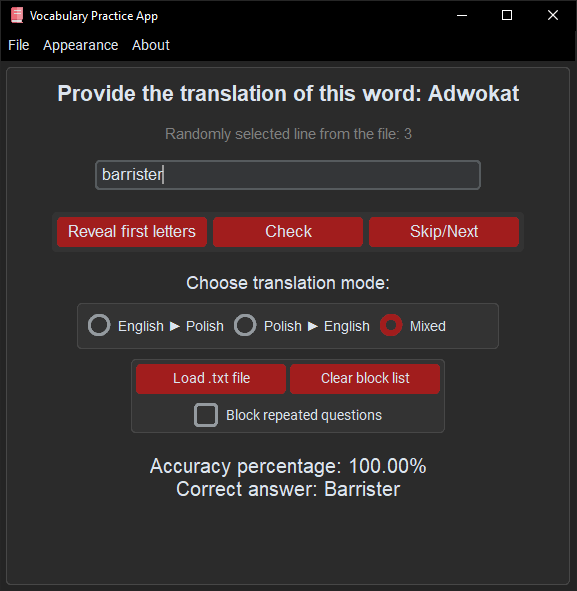
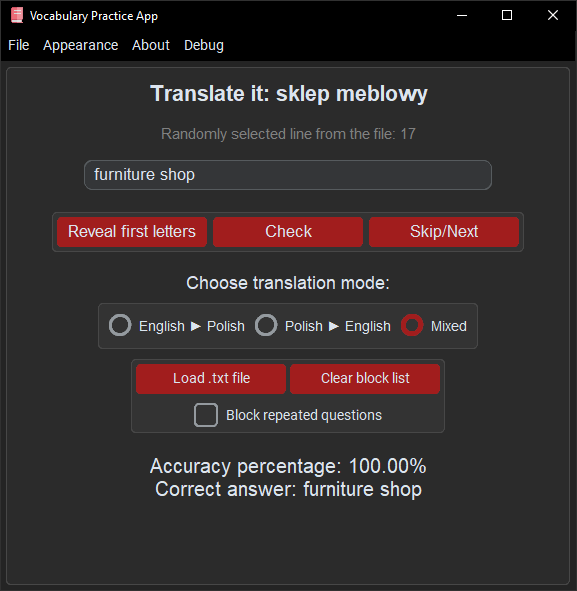
Update 1.4.0
Type hints added
Updated examples

diff --git a/App.py b/App.py
@@ -3,6 +3,7 @@ from CTkMenuBar import *
 import random
 from tkinter import filedialog
 import difflib
+from typing import List, Dict, Optional
 
 from modules.translation_utils import t_path, load_translations
 import modules.translation_utils
@@ -15,7 +16,7 @@ from pprint import pprint
 REQUIRED_JSON_VERSION = 1
 # Application version and release date
 APP_VERSION = {
-    "version": "1.4.0-DEV",
+    "version": "1.4.0",
     "release_date": "30.05.2025"
 }
 
@@ -64,15 +65,15 @@ def pprint_list_of_dicts(list_of_dicts, width=130):
         print(f"[ERROR] Failed to pretty-print list of dictionaries: {e}")
 
 class MainApp():
-    def __init__(self, root):
+    def __init__(self, root: ctk.CTk):
         # State variables
-        self.vocab_word_list = []
-        self.selected_word = None
-        self.selected_mode = "mixed"
-        self.hint_shown = False
-        self.available_words = []
-        self.blocked_lines = set()
-        self.current_mode = "mixed"
+        self.vocab_word_list: List[Dict[str, str | int]] = []
+        self.selected_word: Optional[Dict[str, str | int]] = None
+        self.selected_mode: str = "mixed"
+        self.hint_shown: bool = False
+        self.available_words: List[Dict[str, str | int]] = []
+        self.blocked_lines: set[int] = set()
+        self.current_mode: str = "mixed"
 
         # ==========================================================================
         self.gui_console = GUIConsole(root, APP_SETTINGS)
@@ -307,11 +308,12 @@ class MainApp():
     except:
         print(f"[ERROR]: Color theme {APP_SETTINGS['color_theme']} not found. Using default theme.")
         ctk.set_default_color_theme("blue")
+
     # Debug functions
-    def get_cache_info(self):
+    def get_cache_info(self) -> None:
         print(t_path.cache_info())
 
-    def print_status(self):
+    def print_status(self) -> None:
         print("\n=== Debug: Vocabulary Status ===")
         print(f"\nLoaded words: {len(self.vocab_word_list)}")
         print(f"Selected word: {self.selected_word}")
@@ -322,10 +324,10 @@ class MainApp():
         pprint_list_of_dicts(self.available_words, width=130)
         print("\n=== Debug: Vocabulary Status ===\n")
 
-    def open_console(self):
+    def open_console(self) -> None:
         self.gui_console.open()
 
-    def load_words_from_file(self, file_path=None):
+    def load_words_from_file(self, file_path: Optional[str] = None) -> List[Dict[str, str | int]]:
         """
         Reads a vocabulary file and returns a list of word pairs, ignoring the first line.
         Each line after the first is expected to be in the format "Left_Lang - Right_Lang".
@@ -338,15 +340,26 @@ class MainApp():
                 - "Right_Lang": The word in the right language.
                 - "line_number": The line number in the file (starting from 2).
         """
-        words_list = []
+        words_list: List[Dict[str, str | int]] = []
+        language_names = ("Left", "Right")
         if not file_path:
             return words_list
 
         try:
             with open(file_path, "r", encoding="utf-8") as file:
-                lines = file.readlines()
-
-                for line_number, line in enumerate(lines[1:], start=2):
+                # Read the first line for language names
+                first_line = file.readline()
+                if " - " in first_line:
+                    language_names = tuple(first_line.strip().split(" - "))
+                # Update radiobutton text immediately
+                self.radio_Left_Lang_to_Right_Lang.configure(
+                    text = f"{language_names[0]} ► {language_names[1]}"
+                )
+                self.radio_Right_Lang_to_Left_Lang.configure(
+                    text = f"{language_names[1]} ► {language_names[0]}"
+                )
+                # Read the rest of the file line by line
+                for line_number, line in enumerate(file, start=2):
                     if " - " in line:
                         Left_Lang, Right_Lang = line.strip().split(" - ")
                         if Left_Lang != Right_Lang:
@@ -357,12 +370,10 @@ class MainApp():
                             })
         except FileNotFoundError:
             print(f"File {file_path} not found.")
-        if file_path:
-            self.get_language_names(file_path)
-            pprint_list_of_dicts(words_list, width=130)
+        pprint_list_of_dicts(words_list, width=130)
         return words_list
 
-    def get_language_names(self, file_path):
+    def get_language_names(self, file_path: Optional[str]) -> tuple[str, str]:
         """Returns the language names from the first line of the file and updates the text of the radiobuttons."""
         language_names = ("Left", "Right") 
 
@@ -385,7 +396,7 @@ class MainApp():
 
         return language_names
 
-    def pick_new_word(self):
+    def pick_new_word(self) -> None:
         """
         Selects a new word for the vocabulary practice session according to the current mode and blocklist settings.
         This function:
@@ -448,7 +459,7 @@ class MainApp():
         self.entry.delete(0, ctk.END)
         self.result_label.configure(text="")
 
-    def set_buttons_state(self, state):
+    def set_buttons_state(self, state: str) -> None:
         """Sets the status of all buttons and radiobuttons."""
         self.check_button.configure(state=state)
         self.hint_button.configure(state=state)
@@ -462,15 +473,15 @@ class MainApp():
         # MenuBar
         self.file_clear_blocklist_option.configure(state=state)
 
-    def disable_all_buttons(self):
+    def disable_all_buttons(self) -> None:
         """Deactivates all buttons and radiobuttons."""
         self.set_buttons_state("disabled")
 
-    def enable_all_buttons(self):
+    def enable_all_buttons(self) -> None:
         """Activates all buttons and radiobuttons."""
         self.set_buttons_state("normal")
 
-    def calculate_accuracy(self, correct_answer, user_input):
+    def calculate_accuracy(self, correct_answer: str, user_input: str) -> float:
         """
         Calculates the percentage match between the correct answer and the user's answer.
         """
@@ -480,7 +491,7 @@ class MainApp():
         ratio = difflib.SequenceMatcher(None, correct_answer, user_input).ratio()
         return ratio * 100
 
-    def show_hint(self):
+    def show_hint(self) -> None:
         """Reveals the first letters (3) of the correct translation.""" 
         if not self.hint_shown:
             if self.current_mode == "Left_Lang_to_Right_Lang":
@@ -490,7 +501,7 @@ class MainApp():
             self.result_label.configure(text=f"{t_path('main_window.result_label.hint_text')} {hint}")
             self.hint_shown = True
 
-    def check_answer(self):
+    def check_answer(self) -> None:
         """Checks the correctness of the entered translation."""
         if not self.available_words:
             return print("Action blocked - [CheckAnswer]")
@@ -515,18 +526,18 @@ class MainApp():
         self.result_label.configure(
             text=f"{t_path('main_window.result_label.percent')} {accuracy:.2f}%\n{t_path('main_window.result_label.correct')} {correct_answer}")
 
-    def skip_word(self):
+    def skip_word(self) -> None:
         if not self.vocab_word_list:
             return print("Action blocked - [SkipWord]")
         """Skips the current word and moves on to the next one.""" 
         self.pick_new_word()
 
-    def set_mode(self, new_mode):
+    def set_mode(self, new_mode: str) -> None:
         """Changes the application mode.""" 
         self.selected_mode = new_mode
         self.pick_new_word()
 
-    def open_file_dialog(self):
+    def open_file_dialog(self) -> None:
         """Opens the file explorer and loads the selected file."""
         file_path = filedialog.askopenfilename(filetypes=[("Text files", "*.txt")])
         if file_path:
@@ -539,14 +550,14 @@ class MainApp():
                 print("[open_file_dialog] - File is empty or invalid!")
                 self.disable_all_buttons()
 
-    def toggle_block_repeated(self):
+    def toggle_block_repeated(self) -> None:
         """Enables or disables the blocking of repeated questions."""
         if self.block_repeated_questions.get():
             print("Blocking repeated questions enabled.")
         else:
             print("Blocking repeated questions disabled.")
 
-    def clear_blocked_lines(self):
+    def clear_blocked_lines(self) -> None:
         """Clears the list of blocked line numbers."""
         if not self.vocab_word_list:
             return print("Action blocked - [ClearBlockList]")
@@ -560,7 +571,7 @@ class MainApp():
         self.hint_button.configure(state="normal")
         self.skip_button.configure(state="normal")
 
-    def change_ui_scale(self, scale=0):
+    def change_ui_scale(self, scale: float = 0) -> None:
         MIN_ZOOM = 0.6
         MAX_ZOOM = 3.0
         new_zoom = round(APP_SETTINGS["ui_zoom_factor"] + scale, 3)
@@ -575,7 +586,7 @@ class MainApp():
         ctk.set_window_scaling(APP_SETTINGS["ui_zoom_factor"])
         ctk.set_widget_scaling(APP_SETTINGS["ui_zoom_factor"])
 
-    def set_app_appearance_mode(self, theme):
+    def set_app_appearance_mode(self, theme: str) -> None:
         ctk.set_appearance_mode(theme)
 
         if APP_SETTINGS["SetIcon"]:
